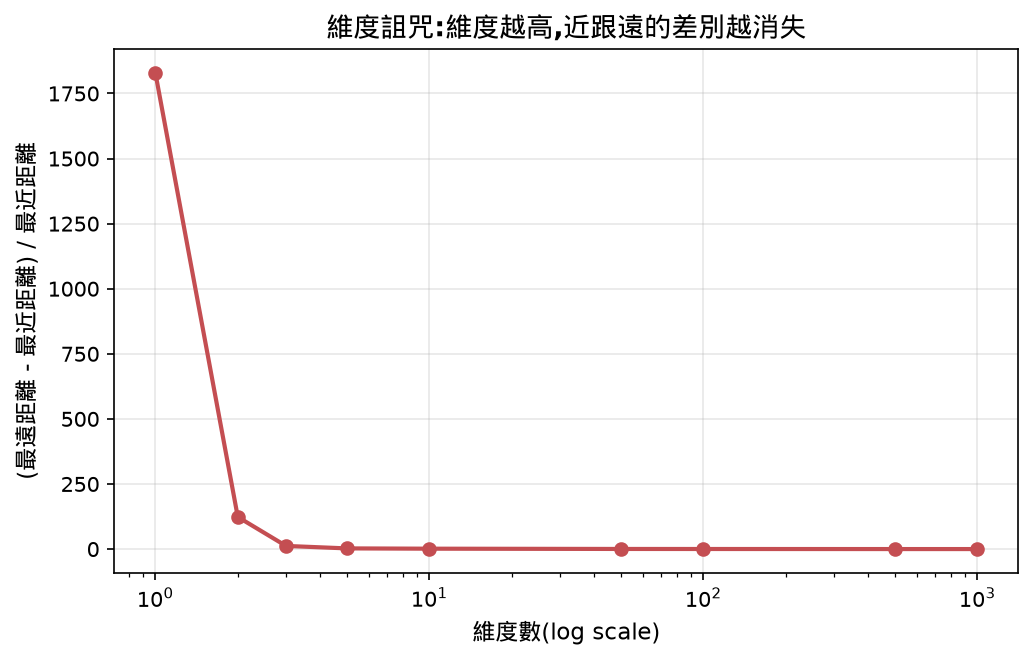
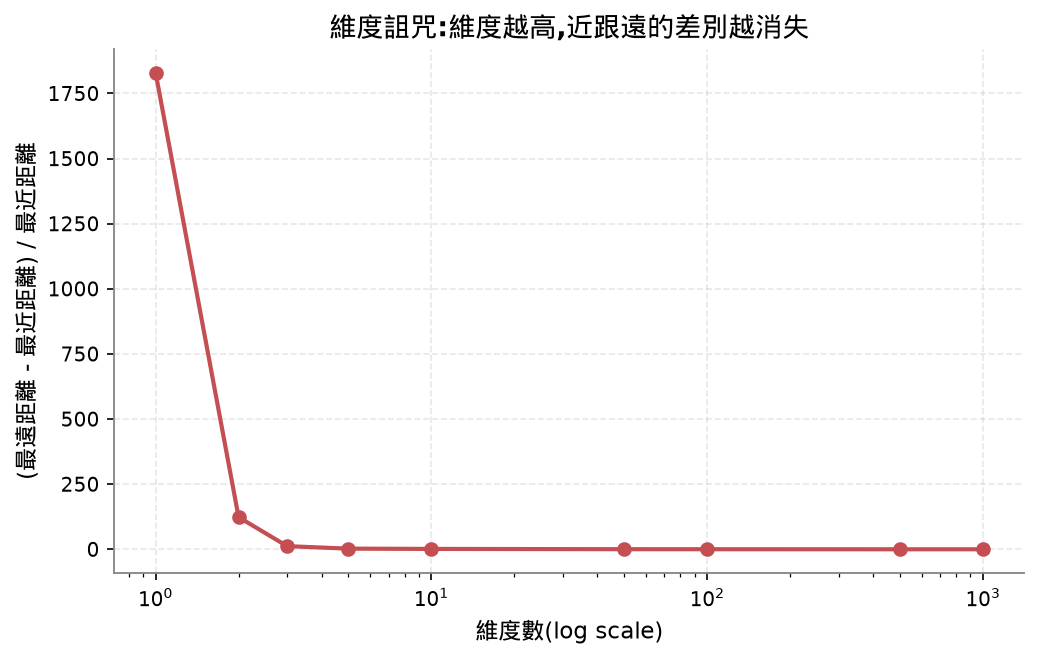
Lesson 10 diagrams: unify visual style
Regenerate with the shared plot style module.

diff --git a/01-math-foundations/10-dimensionality-reduction/images/make_eigenvector_demo.py b/01-math-foundations/10-dimensionality-reduction/images/make_eigenvector_demo.py
@@ -6,9 +6,10 @@ import matplotlib.font_manager as fm
 import matplotlib.pyplot as plt
 import numpy as np
 
-fm.fontManager.addfont("/usr/share/fonts/truetype/droid/DroidSansFallbackFull.ttf")
-matplotlib.rcParams["font.family"] = ["DejaVu Sans", "Droid Sans Fallback"]
-matplotlib.rcParams["axes.unicode_minus"] = False
+import sys
+sys.path.insert(0, "../../_shared")
+from plot_style import setup_style, BLUE, RED, GREEN, PURPLE, GOLD, GRAY
+setup_style()
 
 M = np.array([[2.0, 0.5], [0.5, 1.5]])
 eigenvalues, eigenvectors = np.linalg.eigh(M)
@@ -23,11 +24,11 @@ axes[0].plot(circle[:, 0], circle[:, 1], "--", color="gray", alpha=0.5)
 sample_vecs = [np.array([1, 0]), np.array([0, 1]), np.array([0.7, 0.7]), np.array([-0.7, 0.7])]
 for v, c in zip(sample_vecs, colors + ["#8172B2"]):
     axes[0].arrow(0, 0, v[0], v[1], head_width=0.06, color=c, alpha=0.6, length_includes_head=True)
-axes[0].set_title("變換前:一般向量", fontsize=12, fontweight="bold")
+axes[0].set_title("變換前:一般向量", fontsize=11.5, fontweight="bold")
 axes[0].set_xlim(-1.5, 1.5)
 axes[0].set_ylim(-1.5, 1.5)
 axes[0].set_aspect("equal")
-axes[0].grid(alpha=0.3)
+axes[0].grid(alpha=0.3, linestyle="--")
 
 ellipse = circle @ M.T
 axes[1].plot(ellipse[:, 0], ellipse[:, 1], "--", color="gray", alpha=0.5)
@@ -42,11 +43,11 @@ for i in range(2):
     axes[1].text(ev[0] * 1.15, ev[1] * 1.15, f"特徵向量{i+1}\n(特徵值={eigenvalues[i]:.2f})",
                  fontsize=9, fontweight="bold")
 
-axes[1].set_title("變換後(乘上矩陣M):黑色=特徵向量方向不變,只被拉伸", fontsize=11, fontweight="bold")
+axes[1].set_title("變換後(乘上矩陣M):黑色=特徵向量方向不變,只被拉伸", fontsize=11.5, fontweight="bold")
 axes[1].set_xlim(-2.5, 2.5)
 axes[1].set_ylim(-2.5, 2.5)
 axes[1].set_aspect("equal")
-axes[1].grid(alpha=0.3)
+axes[1].grid(alpha=0.3, linestyle="--")
 
 plt.tight_layout()
 plt.savefig("eigenvector_demo.png", dpi=150, bbox_inches="tight")

diff --git a/01-math-foundations/10-dimensionality-reduction/images/make_pca_tsne_umap_demo.py b/01-math-foundations/10-dimensionality-reduction/images/make_pca_tsne_umap_demo.py
@@ -6,9 +6,10 @@ import matplotlib.font_manager as fm
 import matplotlib.pyplot as plt
 import numpy as np
 
-fm.fontManager.addfont("/usr/share/fonts/truetype/droid/DroidSansFallbackFull.ttf")
-matplotlib.rcParams["font.family"] = ["DejaVu Sans", "Droid Sans Fallback"]
-matplotlib.rcParams["axes.unicode_minus"] = False
+import sys
+sys.path.insert(0, "../../_shared")
+from plot_style import setup_style, BLUE, RED, GREEN, PURPLE, GOLD, GRAY
+setup_style()
 
 from sklearn.datasets import make_blobs
 from sklearn.decomposition import PCA as SklearnPCA
@@ -30,19 +31,19 @@ fig, axes = plt.subplots(1, 3, figsize=(14, 4.5))
 cmap = "tab10"
 
 axes[0].scatter(X_pca[:, 0], X_pca[:, 1], c=y, cmap=cmap, s=12, alpha=0.7)
-axes[0].set_title("PCA\n(線性,保留全域變異方向)", fontsize=12, fontweight="bold")
+axes[0].set_title("PCA\n(線性,保留全域變異方向)", fontsize=11.5, fontweight="bold")
 
 axes[1].scatter(X_tsne[:, 0], X_tsne[:, 1], c=y, cmap=cmap, s=12, alpha=0.7)
-axes[1].set_title("t-SNE\n(保留鄰居關係,群更緊實分開)", fontsize=12, fontweight="bold")
+axes[1].set_title("t-SNE\n(保留鄰居關係,群更緊實分開)", fontsize=11.5, fontweight="bold")
 
 axes[2].scatter(X_umap[:, 0], X_umap[:, 1], c=y, cmap=cmap, s=12, alpha=0.7)
-axes[2].set_title("UMAP\n(類似t-SNE但更快、更保留全域結構)", fontsize=12, fontweight="bold")
+axes[2].set_title("UMAP\n(類似t-SNE但更快、更保留全域結構)", fontsize=11.5, fontweight="bold")
 
 for ax in axes:
     ax.set_xticks([])
     ax.set_yticks([])
 
-fig.suptitle("同一份20維、5群的資料,降到2維:三種方法的取捨", fontsize=13, fontweight="bold", y=1.02)
+fig.suptitle("同一份20維、5群的資料,降到2維:三種方法的取捨", y=1.02)
 plt.tight_layout()
 plt.savefig("pca_tsne_umap_comparison.png", dpi=150, bbox_inches="tight")
 print("saved")

diff --git a/01-math-foundations/10-dimensionality-reduction/images/make_covariance_demo.py b/01-math-foundations/10-dimensionality-reduction/images/make_covariance_demo.py
@@ -6,9 +6,10 @@ import matplotlib.font_manager as fm
 import matplotlib.pyplot as plt
 import numpy as np
 
-fm.fontManager.addfont("/usr/share/fonts/truetype/droid/DroidSansFallbackFull.ttf")
-matplotlib.rcParams["font.family"] = ["DejaVu Sans", "Droid Sans Fallback"]
-matplotlib.rcParams["axes.unicode_minus"] = False
+import sys
+sys.path.insert(0, "../../_shared")
+from plot_style import setup_style, BLUE, RED, GREEN, PURPLE, GOLD, GRAY
+setup_style()
 
 np.random.seed(1)
 n = 150
@@ -18,22 +19,22 @@ x = np.random.normal(0, 1, n)
 y_pos = 0.9 * x + np.random.normal(0, 0.4, n)
 cov_pos = np.cov(x, y_pos)[0, 1]
 axes[0].scatter(x, y_pos, s=18, color="#4C72B0", alpha=0.6)
-axes[0].set_title(f"正相關\ncov={cov_pos:.2f}", fontsize=12, fontweight="bold", color="#4C72B0")
+axes[0].set_title(f"正相關\ncov={cov_pos:.2f}", fontsize=11.5, fontweight="bold", color="#4C72B0")
 
 y_neg = -0.9 * x + np.random.normal(0, 0.4, n)
 cov_neg = np.cov(x, y_neg)[0, 1]
 axes[1].scatter(x, y_neg, s=18, color="#C44E52", alpha=0.6)
-axes[1].set_title(f"負相關\ncov={cov_neg:.2f}", fontsize=12, fontweight="bold", color="#C44E52")
+axes[1].set_title(f"負相關\ncov={cov_neg:.2f}", fontsize=11.5, fontweight="bold", color="#C44E52")
 
 y_none = np.random.normal(0, 1, n)
 cov_none = np.cov(x, y_none)[0, 1]
 axes[2].scatter(x, y_none, s=18, color="#55A868", alpha=0.6)
-axes[2].set_title(f"不相關\ncov={cov_none:.2f}", fontsize=12, fontweight="bold", color="#55A868")
+axes[2].set_title(f"不相關\ncov={cov_none:.2f}", fontsize=11.5, fontweight="bold", color="#55A868")
 
 for ax in axes:
     ax.set_xlabel("特徵1", fontsize=9)
     ax.set_ylabel("特徵2", fontsize=9)
-    ax.grid(alpha=0.3)
+    ax.grid(alpha=0.3, linestyle="--")
     ax.set_aspect("equal")
 
 plt.tight_layout()

diff --git a/01-math-foundations/10-dimensionality-reduction/images/make_kernel_pca_demo.py b/01-math-foundations/10-dimensionality-reduction/images/make_kernel_pca_demo.py
@@ -7,9 +7,10 @@ import matplotlib.font_manager as fm
 import matplotlib.pyplot as plt
 import numpy as np
 
-fm.fontManager.addfont("/usr/share/fonts/truetype/droid/DroidSansFallbackFull.ttf")
-matplotlib.rcParams["font.family"] = ["DejaVu Sans", "Droid Sans Fallback"]
-matplotlib.rcParams["axes.unicode_minus"] = False
+import sys
+sys.path.insert(0, "../../_shared")
+from plot_style import setup_style, BLUE, RED, GREEN, PURPLE, GOLD, GRAY
+setup_style()
 
 sys.path.insert(0, "..")
 from reference import PCA, KernelPCA
@@ -26,14 +27,14 @@ X_kpca = kpca.fit_transform(X_circles)
 fig, axes = plt.subplots(1, 3, figsize=(14, 4.5))
 
 axes[0].scatter(X_circles[:, 0], X_circles[:, 1], c=y_circles, cmap="coolwarm", s=15)
-axes[0].set_title("原始資料(同心圓)", fontsize=12, fontweight="bold")
+axes[0].set_title("原始資料(同心圓)", fontsize=11.5, fontweight="bold")
 axes[0].set_aspect("equal")
 
 axes[1].scatter(X_linear[:, 0], X_linear[:, 1], c=y_circles, cmap="coolwarm", s=15)
-axes[1].set_title(f"標準PCA\n(explained var: {pca.explained_variance_ratio_[0]:.2f}, {pca.explained_variance_ratio_[1]:.2f})\n兩群混在一起,分不開", fontsize=11, color="#C44E52")
+axes[1].set_title(f"標準PCA\n(explained var: {pca.explained_variance_ratio_[0]:.2f}, {pca.explained_variance_ratio_[1]:.2f})\n兩群混在一起,分不開", fontsize=11.5, color="#C44E52")
 
 axes[2].scatter(X_kpca[:, 0], X_kpca[:, 1], c=y_circles, cmap="coolwarm", s=15)
-axes[2].set_title("Kernel PCA (RBF, gamma=10)\n兩群被拆開了", fontsize=12, color="#55A868", fontweight="bold")
+axes[2].set_title("Kernel PCA (RBF, gamma=10)\n兩群被拆開了", fontsize=11.5, color="#55A868", fontweight="bold")
 
 plt.tight_layout()
 plt.savefig("kernel_pca_circles.png", dpi=150, bbox_inches="tight")

diff --git a/01-math-foundations/10-dimensionality-reduction/images/make_curse_demo.py b/01-math-foundations/10-dimensionality-reduction/images/make_curse_demo.py
@@ -6,9 +6,10 @@ import matplotlib.font_manager as fm
 import matplotlib.pyplot as plt
 import numpy as np
 
-fm.fontManager.addfont("/usr/share/fonts/truetype/droid/DroidSansFallbackFull.ttf")
-matplotlib.rcParams["font.family"] = ["DejaVu Sans", "Droid Sans Fallback"]
-matplotlib.rcParams["axes.unicode_minus"] = False
+import sys
+sys.path.insert(0, "../../_shared")
+from plot_style import setup_style, BLUE, RED, GREEN, PURPLE, GOLD, GRAY
+setup_style()
 
 np.random.seed(0)
 dims = [1, 2, 3, 5, 10, 50, 100, 500, 1000]
@@ -27,8 +28,8 @@ ax.plot(dims, ratios, marker="o", linewidth=2, color="#C44E52")
 ax.set_xscale("log")
 ax.set_xlabel("維度數(log scale)", fontsize=11)
 ax.set_ylabel("(最遠距離 - 最近距離) / 最近距離", fontsize=11)
-ax.set_title("維度詛咒:維度越高,近跟遠的差別越消失", fontsize=13, fontweight="bold")
-ax.grid(alpha=0.3)
+ax.set_title("維度詛咒:維度越高,近跟遠的差別越消失")
+ax.grid(alpha=0.3, linestyle="--")
 plt.tight_layout()
 plt.savefig("curse_of_dimensionality.png", dpi=150, bbox_inches="tight")
 print("saved")

diff --git a/01-math-foundations/10-dimensionality-reduction/images/make_elbow_demo.py b/01-math-foundations/10-dimensionality-reduction/images/make_elbow_demo.py
@@ -7,9 +7,10 @@ import matplotlib.font_manager as fm
 import matplotlib.pyplot as plt
 import numpy as np
 
-fm.fontManager.addfont("/usr/share/fonts/truetype/droid/DroidSansFallbackFull.ttf")
-matplotlib.rcParams["font.family"] = ["DejaVu Sans", "Droid Sans Fallback"]
-matplotlib.rcParams["axes.unicode_minus"] = False
+import sys
+sys.path.insert(0, "../../_shared")
+from plot_style import setup_style, BLUE, RED, GREEN, PURPLE, GOLD, GRAY
+setup_style()
 
 sys.path.insert(0, "..")
 from reference import PCA
@@ -42,7 +43,7 @@ ax2.set_ylim(0, 1.05)
 ax1.axvline(x=2, color="#55A868", linestyle="--", alpha=0.7)
 ax1.text(2.1, max(ratios) * 0.9, "斷崖點(elbow)\n第2個之後貢獻趨近雜訊", fontsize=9, color="#55A868")
 
-ax1.set_title("Elbow Method:找變異量的斷崖落差,決定留幾維", fontsize=12, fontweight="bold")
+ax1.set_title("Elbow Method:找變異量的斷崖落差,決定留幾維")
 fig.tight_layout()
 plt.savefig("elbow_method_demo.png", dpi=150, bbox_inches="tight")
 print("saved")

diff --git a/01-math-foundations/10-dimensionality-reduction/images/make_pca_pipeline.py b/01-math-foundations/10-dimensionality-reduction/images/make_pca_pipeline.py
@@ -7,9 +7,10 @@ import matplotlib.pyplot as plt
 import matplotlib.patches as mpatches
 from matplotlib.patches import FancyBboxPatch, FancyArrowPatch
 
-fm.fontManager.addfont("/usr/share/fonts/truetype/droid/DroidSansFallbackFull.ttf")
-matplotlib.rcParams["font.family"] = ["DejaVu Sans", "Droid Sans Fallback"]
-matplotlib.rcParams["axes.unicode_minus"] = False
+import sys
+sys.path.insert(0, "../../_shared")
+from plot_style import setup_style, BLUE, RED, GREEN, PURPLE, GOLD, GRAY
+setup_style()
 
 fig, ax = plt.subplots(figsize=(13, 4))
 ax.set_xlim(0, 13)
@@ -50,7 +51,7 @@ for i, (title, desc, color) in enumerate(steps):
         )
         ax.add_patch(arrow)
 
-ax.set_title("PCA.fit() 五步驟流水線", fontsize=14, fontweight="bold", pad=14)
+ax.set_title("PCA.fit() 五步驟流水線", pad=14)
 plt.tight_layout()
 plt.savefig("pca_fit_pipeline.png", dpi=150, bbox_inches="tight")
 print("saved")
